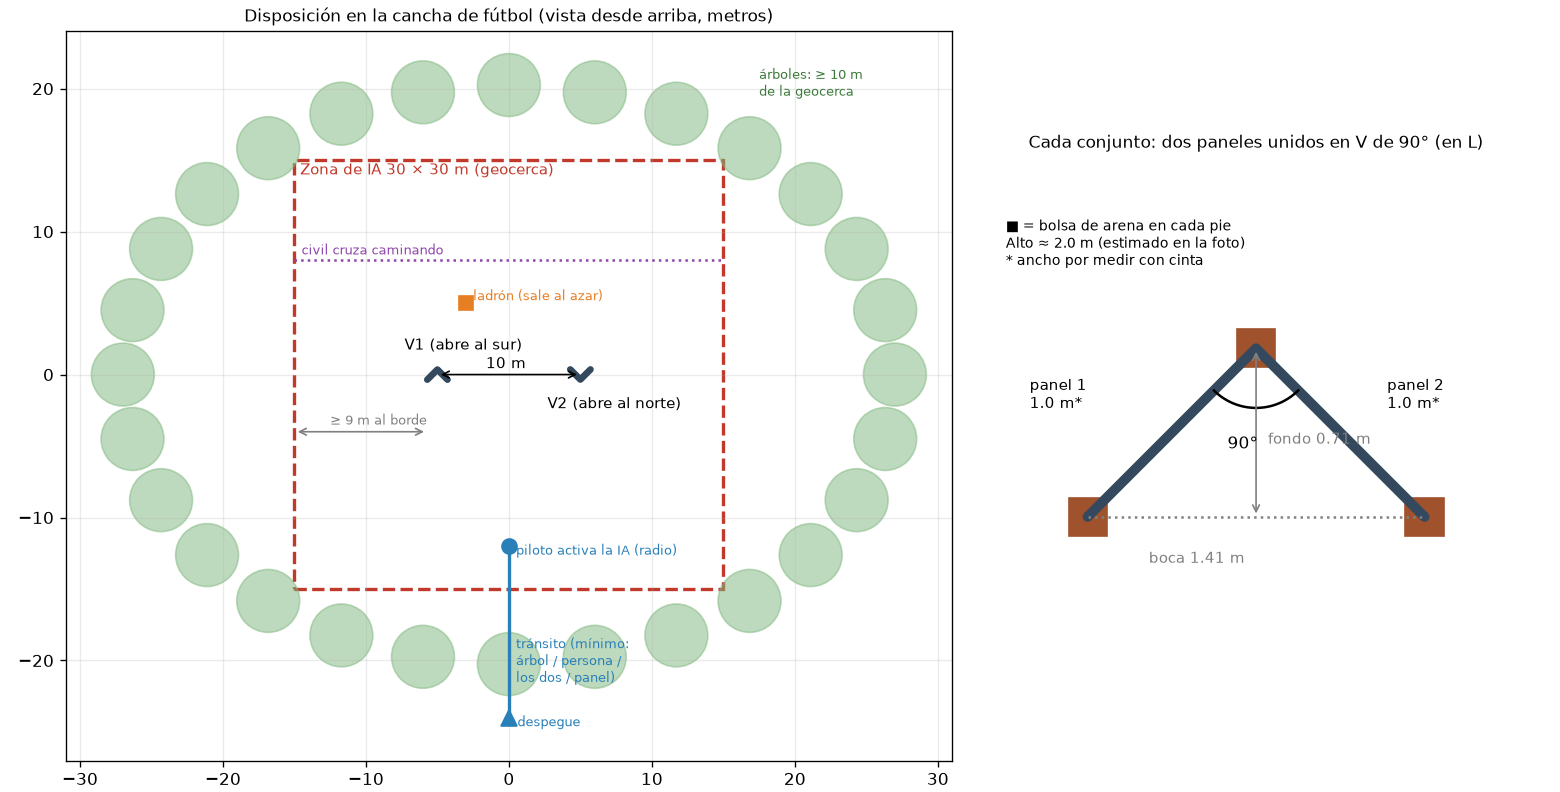
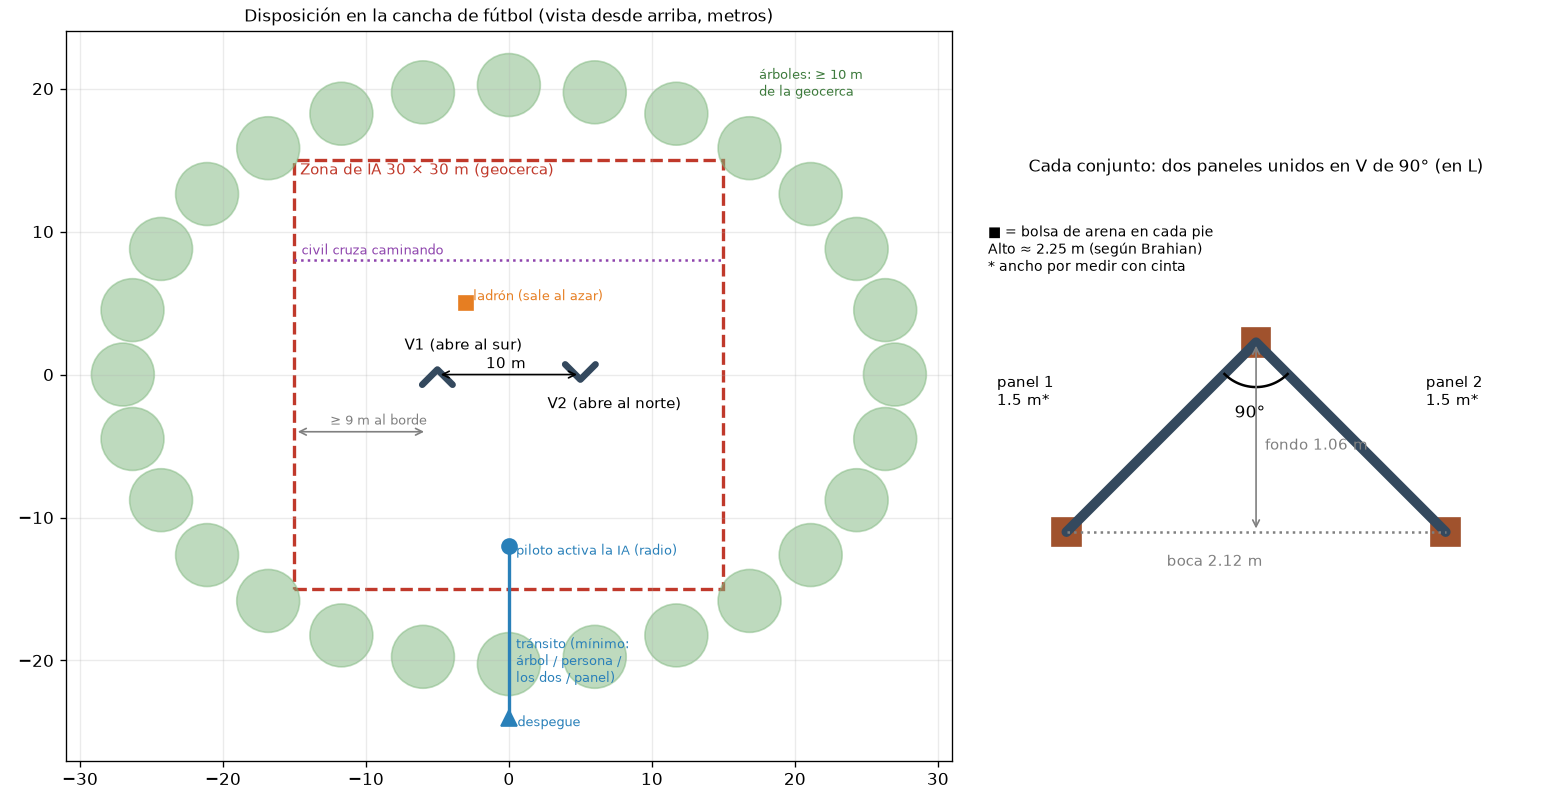
D-066: paneles de 1.5 x 2.25 m según Brahian; dibujo y plan actualizados

diff --git a/docs/DECISIONES.md b/docs/DECISIONES.md
@@ -70,3 +70,4 @@ Las marcadas **ABIERTA** esperan respuesta de Brahian.
 | D-063 | 10-17 | Decidida por el Supervisor (delegación de Brahian) · Seguridad de altura: Simulación V17 mide dos arreglos para que el dron no vuele **de verdad** por debajo de 3.30 m con alguien a < 8 m (hoy 14.1 % real contra 2.0 % pedido, por el error del barómetro): (1) margen sobre la altura segura según el error del barómetro, (2) altímetro por LiDAR al piso si la variante lo permite. Se queda el que baje el tiempo real bajo 3.30 m a ≤ 2 % sin empeorar M1 | `informes/v17_linea_base.json`. La altura segura es parte de la regla dura 5 (D-043) |
 | D-064 | 10-17 | Decidida por el Supervisor (delegación de Brahian) · Hardware del plus: se mantiene **C primero, D de plan B** (D-055), y Brahian **imprime el pan-tilt de la variante D** desde ya (él lo pidió). La sesión de Hardware prepara las piezas para imprimir y una guía clara de qué va dónde. TF03 al chasis inclinado **−3°** en vez de +1° (duplica el mapeo de los paneles de 2 m, 25 → 52 %, `PROGRESO_V17.md`, paso 7): la simulación lo adopta; en el dron, solo después de los pasos 4-7 del mínimo | El montaje del TF03 en el chasis es nuevo de todos modos, así que inclinarlo no cuesta más |
 | D-065 | 10-17 | Decidida por el Supervisor por pedido de Brahian (17-oct, noche) · Reemplaza la parte gráfica de D-057. El **mundo 3D realista** se hace en **Unreal Engine 5** (personas MetaHuman, luz Lumen, la cancha de la universidad), y lo alimenta la simulación de Python por red con el JSON de `foto()`. La **interfaz** (estación de tierra) sigue siendo web, porque es la que irá en la Jetson, ahora con paneles que se mueven, se agrandan, se minimizan y se guardan, y vistas "solo 3D", "solo lo que ve el dron" y "todo". Mientras se instala Unreal, el visor web vuelve a su aspecto anterior (personas y cielo de la V16); los paquetes de Quaternius quedan como opción apagada | Brahian vio el video de Blender con personas de Quaternius y lo rechazó: "parece hecho a punta de figuras geométricas", "se veía mejor antes"; pide "algo similar a GTA 5" aunque el computador vaya forzado. El PC tiene 283 GB libres, 16 GB de RAM y una RTX 3050 de 6 GB: Unreal corre, con calidad media. Instalarlo necesita a Brahian (cuenta de Epic y permiso de administrador) |
+| D-066 | 10-17 | Decidida por el Arquitecto (autorización de Brahian del 17-oct) · Medidas de los paneles para la V17: **ancho de cada panel 1.5 m y alto 2.25 m** (aleatorio 2.1-2.4 m en la simulación), hasta medirlos con cinta. Se mantienen la V de 90°, las dos V a 10 m con las bocas opuestas y la zona de 30 × 30 m. Corrige D-051 (1.0 m y 2.0 m) | Brahian, en el chat de la sesión Visor: cada panel "como metro y medio" y "2,20, 2,30 de altura" (≥ 50 cm por encima de su cabeza; él mide 1.74 m). Eso manda sobre la estimación por la foto (1.9-2.2 m). Sistemas comerciales parecidos: 0.95 × 2.34 m y 0.93 × 2.25 m (búsqueda del Visor). Dibujo actualizado en `docs/v17_zona_ia.png`; plan, sección 3.2 |

diff --git a/docs/PLAN_V17_REFUERZO.md b/docs/PLAN_V17_REFUERZO.md
@@ -90,6 +90,13 @@ la Jetson (`02_JETSON_A_BORDO/`, no se toca aquí): queda anotado para la nube d
 
 ### 3.2 Los paneles: altura medida en la foto
 
+> **Actualización (17-oct, D-066):** Brahian, que conoce los paneles, dice que cada uno mide **~1.5 m de ancho** y el
+> conjunto **~2.2-2.3 m de alto** ("al menos 50 cm por encima de mi cabeza", él mide 1.74 m). Eso manda sobre la
+> estimación de la foto de abajo. Nuevos valores hasta medirlos con cinta: **`ANCHO_PANEL_V17 = 1.5` m y
+> `ALTO_PANEL_V17 = 2.25` m (aleatorio 2.1-2.4 m)**. La V de 90° queda con boca de 2.12 m y fondo de 1.06 m. Las dos V a
+> 10 m y la zona de 30 × 30 m no cambian. Desde 3.30 m y a 5 m del panel, una persona de pie queda oculta hasta ~2.6 m
+> detrás y agachada hasta ~5.5 m: ver por encima ahora pesa más (SUBIR).
+
 Foto `08_EVIDENCIA_Y_DIAGRAMAS/paneles_de_exposicion_universidad.png` (330 × 572 px). Referencia: la mujer de la
 derecha, de pie a una distancia parecida a la del panel del fondo, con los pies a la vista. Con el método del horizonte
 (alto = altura de la cámara × (y_pie − y_cabeza) / (y_pie − y_horizonte); horizonte a la altura de los ojos, y ≈ 165):
